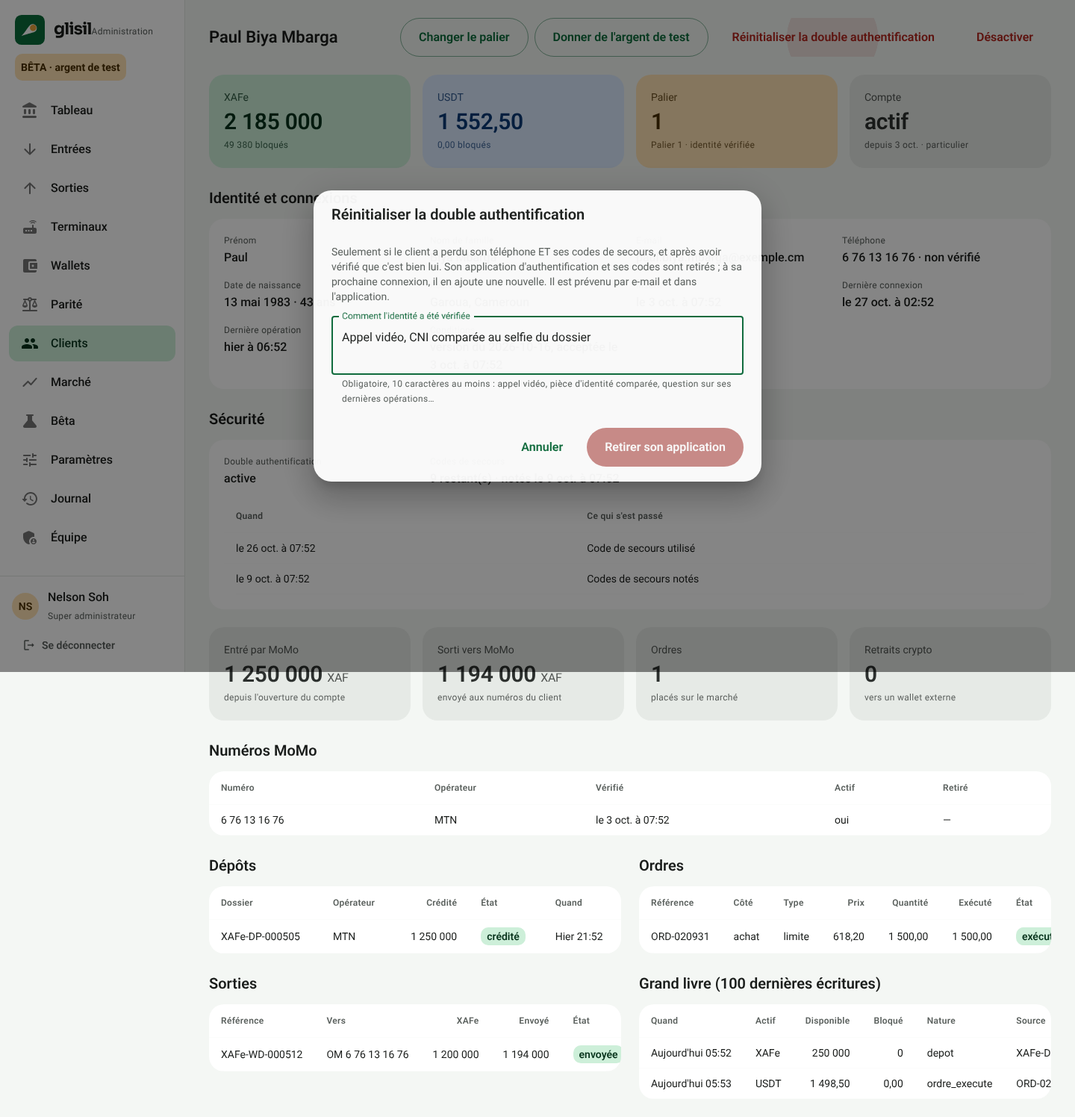
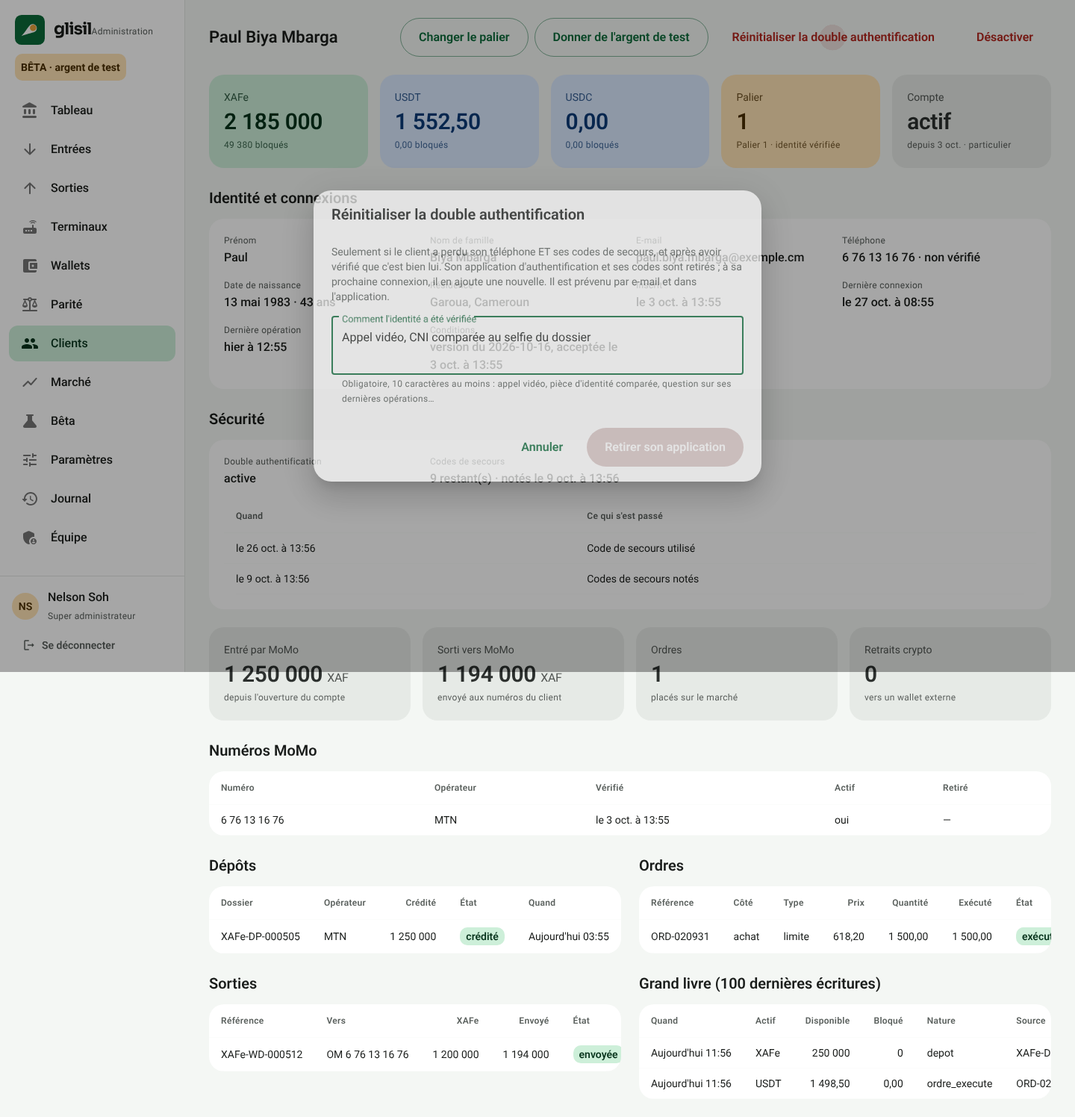
Administration : les deux carnets et l'USDC
Le Marché se lit carnet par carnet (onglets USDT/XAFe et USDC/XAFe), et
chacun a son interrupteur, écrit dans marche.paires : fermer l'un ne ferme
pas l'autre. Wallets : l'USDC dû, tenu et couvert à part ; chaque dollar au
chaud et au froid ; les adresses prêtes par actif. Tableau et clients :
la colonne USDC. Paramètres : marche.paires et crypto.frais_reseaux
expliqués. Parcours rejoué (35 captures).

Claude-Session: https://claude.ai/code/session_01KQFNA9um3M9XZtMAcLTsHe

diff --git a/admin/src/guichet/demo.ts b/admin/src/guichet/demo.ts
@@ -94,8 +94,8 @@ function graine(): Etat {
       id: `c${i + 1}`, telephone: tel, nom, entreprise: nom.includes("SARL") || nom.startsWith("ETS") || nom.startsWith("Desk") ? nom : null,
       palier: (i === 4 ? 0 : i === 7 ? 1 : i % 4 === 0 ? 2 : i % 3 === 0 ? 1 : 0) as 0 | 1 | 2, verification_en_cours: i === 4 ? "identite" : i === 7 ? "entreprise" : null,
       cree_le: iso(t - (30 - i) * 24 * H), desactive_le: i === 11 ? iso(t - 5 * 24 * H) : null,
-      xafe: Math.round((i + 1) * 437_000 + (i % 5) * 12_345), usdt: Math.round((i + 1) * 310.5 * 100) / 100,
-      soldes: { XAFe: { disponible: Math.round((i + 1) * 437_000), bloque: (i % 5) * 12_345 }, USDT: { disponible: Math.round((i + 1) * 310.5 * 100) / 100, bloque: 0 } },
+      xafe: Math.round((i + 1) * 437_000 + (i % 5) * 12_345), usdt: Math.round((i + 1) * 310.5 * 100) / 100, usdc: i % 3 === 0 ? (i + 1) * 120 : 0,
+      soldes: { XAFe: { disponible: Math.round((i + 1) * 437_000), bloque: (i % 5) * 12_345 }, USDT: { disponible: Math.round((i + 1) * 310.5 * 100) / 100, bloque: 0 }, USDC: { disponible: i % 3 === 0 ? (i + 1) * 120 : 0, bloque: 0 } },
       numeros: [{ id: `n${i}`, operateur: tel.startsWith("69") ? "om" : "mtn", numero: tel, verifie_le: iso(t - (30 - i) * 24 * H), actif_des: iso(t - (29 - i) * 24 * H), retire_le: null }],
       a_code: true,
       email: `${sansAccents(nom).toLowerCase().replace(/[^a-z]+/g, ".").replace(/^\.|\.$/g, "")}@exemple.cm`,
@@ -360,13 +360,13 @@ export class GuichetDemo implements GuichetAdmin {
     const debutJour = new Date().setHours(0, 0, 0, 0);
     return copie({
       circulation: somme("XAFe", "disponible") + somme("XAFe", "bloque"),
-      soldes: { XAFe: { disponible: somme("XAFe", "disponible"), bloque: somme("XAFe", "bloque") }, USDT: { disponible: somme("USDT", "disponible"), bloque: somme("USDT", "bloque") } },
-      maison: { XAFe: 2_418_500, USDT: 1_204.75 },
+      soldes: { XAFe: { disponible: somme("XAFe", "disponible"), bloque: somme("XAFe", "bloque") }, USDT: { disponible: somme("USDT", "disponible"), bloque: somme("USDT", "bloque") }, USDC: { disponible: somme("USDC", "disponible"), bloque: somme("USDC", "bloque") } },
+      maison: { XAFe: 2_418_500, USDT: 1_204.75, USDC: 212.4 },
       comptes: e.clients.length,
       jour: {
         entrees: e.entrees.flatMap((x) => x.declarations).filter((d) => d.etat === "credite" && d.credite_le && new Date(d.credite_le).getTime() >= debutJour).reduce((s, d) => s + (d.montant ?? 0), 0),
         sorties: e.sorties.filter((s) => new Date(s.cree_le).getTime() >= debutJour).reduce((s, x) => s + x.montant_envoye, 0),
-        volume_usdt: 41_298, frais_xafe: 93_420,
+        volume_usdt: 41_298, frais_xafe: 93_420, volumes: { "USDT/XAFe": 41_298, "USDC/XAFe": 6_120 },
       },
       retenues: { nombre: e.retenues.filter((r) => r.etat === "retenue").length, montant: e.retenues.filter((r) => r.etat === "retenue").reduce((s, r) => s + (r.montant ?? 0), 0) },
       sorties_en_cours: e.sorties.filter((s) => ["en_attente", "en_cours"].includes(s.etat)).length,
@@ -894,16 +894,20 @@ export class GuichetDemo implements GuichetAdmin {
     a.actif = actif; this.noter(actif ? "activer_administrateur" : "desactiver_administrateur", id); this.emettre();
   }
 
-  async marche(): Promise<Marche> {
+  async marche(paire = "USDT/XAFe"): Promise<Marche> {
     this.exiger("voir");
-    const mid = this.e.mid;
+    // le carnet USDC de la démonstration : un peu sous celui de l'USDT, plus mince
+    const usdc = paire === "USDC/XAFe";
+    const mid = usdc ? Math.round((this.e.mid - 1.3) * 20) / 20 : this.e.mid;
+    const regles = { ...(this.e.parametres.marche as Record<string, unknown>), ...((this.e.parametres.marche as { paires?: Record<string, Record<string, unknown>> }).paires?.[paire] ?? {}) };
     const niveau = (i: number) => Math.round(200 + Math.abs(Math.sin(i * 7.3)) * 9000);
     const t = maintenant();
     return copie({
       cotation: this.cotation(),
       carnet: { achats: Array.from({ length: 12 }, (_, i) => ({ prix: Math.round((mid - (i + 1) * 0.05) * 100) / 100, quantite: niveau(i), ordres: 1 + (i % 4) })), ventes: Array.from({ length: 12 }, (_, i) => ({ prix: Math.round((mid + (i + 1) * 0.05) * 100) / 100, quantite: niveau(i + 20), ordres: 1 + (i % 3) })), dernier: mid },
       transactions: Array.from({ length: 20 }, (_, i) => ({ prix: Math.round((mid + (Math.sin(i) * 0.2)) * 20) / 20, quantite: niveau(i + 40) / 10, preneur: i % 2 ? "achat" : "vente", cree_le: iso(t - i * 37_000) })),
-      ordres_ouverts: 37,
+      ordres_ouverts: usdc ? 9 : 37,
+      paire: paire as Marche["paire"], paires: ["USDT/XAFe", "USDC/XAFe"], regles: { ...regles, paire, base: usdc ? "USDC" : "USDT" },
       parametres: this.e.parametres.marche as Marche["parametres"],
       frais: this.e.parametres.frais as Marche["frais"],
       chandelles: Array.from({ length: 48 }, (_, i) => { const o = mid - 2 + Math.sin(i / 3) * 1.5; const c = o + (Math.cos(i / 2) * 0.4); return { t: iso(t - (48 - i) * H), o: Math.round(o * 100) / 100, h: Math.round((Math.max(o, c) + 0.2) * 100) / 100, l: Math.round((Math.min(o, c) - 0.2) * 100) / 100, c: Math.round(c * 100) / 100, v: niveau(i + 60) }; }),
@@ -924,17 +928,21 @@ export class GuichetDemo implements GuichetAdmin {
     const t = maintenant();
     const du = Math.round(this.e.clients.reduce((s, c) => s + (c.soldes.USDT?.disponible ?? 0) + (c.soldes.USDT?.bloque ?? 0), 0) * 100) / 100;
     // la démo montre un réseau en ordre (BEP20) et un réseau qui réclame quelqu'un (TRC20) : la page doit savoir dire les deux
+    const duUsdc = Math.round(this.e.clients.reduce((s, c) => s + (c.soldes.USDC?.disponible ?? 0) + (c.soldes.USDC?.bloque ?? 0), 0) * 100) / 100;
     return {
-      du_usdt: du, maison_usdt: 1_284.5,
+      du_usdt: du, maison_usdt: 1_284.5, du_usdc: duUsdc, maison_usdc: 212.4,
       reseaux: [
         {
-          reseau: "bep20", maj_le: iso(t - 9_000), muet: false, adresses_attribuees: 214, adresses_libres: 20, retraits_en_cours: 1, retraits_remplaces: 0, curseur: 48_210_377,
+          reseau: "bep20", maj_le: iso(t - 9_000), muet: false, adresses_attribuees: 214, adresses_libres: 60, retraits_en_cours: 1, retraits_remplaces: 0, curseur: 48_210_377,
+          actifs: ["XAFe", "USDT", "USDC"], libres: { XAFe: 20, USDT: 20, USDC: 20 },
           etat: { chaud: "0x8F3a5b7C2d1E4f6A9b0C3d5E7f9A1b2C4d6E8f0A", usdt_chaud: 8_412.37, natif_chaud: 0.4821, froid: "0x2b9C4e6F8a0B1c3D5e7F9a1B3c5D7e9F0a2B4c6D", usdt_froid: Math.max(0, Math.round((du - 8_412.37 + 500) * 100) / 100), plafond_chaud: 20_000, garder_chaud: 10_000, a_inscrire: [], alertes: [],
             reserve_adresse: "0x750E774368240063BD5CF52b30b91183Efa4dAf3", reserve_xafe: 412_850_000, xafe_chaud: 0,
-            plafond_jour: 1_000_000_000, reste_du_jour: 873_500_000, en_pause: false, stock_xafe_ok: true },
+            plafond_jour: 1_000_000_000, reste_du_jour: 873_500_000, en_pause: false, stock_xafe_ok: true,
+            dollars: { USDT: { chaud: 8_412.37, froid: Math.max(0, Math.round((du - 8_412.37 + 500) * 100) / 100) }, USDC: { chaud: Math.round((duUsdc + 300) * 100) / 100, froid: 0 } } },
         },
         {
           reseau: "trc20", maj_le: iso(t - 12_000), muet: false, adresses_attribuees: 37, adresses_libres: 18, retraits_en_cours: 2, retraits_remplaces: 1, curseur: 71_402_118,
+          actifs: ["XAFe", "USDT"], libres: { XAFe: 9, USDT: 9 },
           etat: {
             chaud: "TMcQ8t4Fxyn28RZrRJZSizMTRi1x6ddnq5", usdt_chaud: 640.0, natif_chaud: 41.2, froid: null, usdt_froid: null, plafond_chaud: null, garder_chaud: null,
             a_inscrire: ["TAffsRJMFoskcaySKwsLFR3tvVvasrn2s7", "TVt5DUppUWwWQWjpPjvrhxXvGJZQTaX3Au"],

diff --git a/admin/src/pages/wallets.tsx b/admin/src/pages/wallets.tsx
@@ -86,18 +86,26 @@ function Reseau({ r }: { r: ReseauWallets }) {
             )}
             <Ligne label="Wallet chaud"><Adresse valeur={e.chaud} /></Ligne>
             <Ligne label="Au chaud">
-              <Typography>{enTranches(e.usdt_chaud, 2)} USDT · {enTranches(e.natif_chaud, decimalesNatif(r.reseau))} {NATIF[r.reseau] ?? ""} pour les frais</Typography>
+              {/* chaque dollar que ce veilleur porte (0045) ; un veilleur d'avant l'USDC ne publie que l'USDT */}
+              <Typography>{e.dollars
+                ? Object.entries(e.dollars).map(([d, v]) => `${enTranches(v?.chaud ?? 0, 2)} ${d}`).join(" · ")
+                : `${enTranches(e.usdt_chaud, 2)} USDT`} · {enTranches(e.natif_chaud, decimalesNatif(r.reseau))} {NATIF[r.reseau] ?? ""} pour les frais</Typography>
             </Ligne>
             <Ligne label="Wallet froid">
               {e.froid ? <Adresse valeur={e.froid} /> : <Typography variant="body2">Aucun : rien ne part au froid automatiquement.</Typography>}
             </Ligne>
             {e.froid && (
               <Ligne label="Au froid">
-                <Typography>{e.usdt_froid != null ? `${enTranches(e.usdt_froid, 2)} USDT` : "—"}</Typography>
-                {e.plafond_chaud != null && <Typography variant="caption">Au-delà de {enTranches(e.plafond_chaud, 0)} USDT au chaud, le surplus part au froid ; il en reste {enTranches(e.garder_chaud ?? 0, 0)} au chaud, plus ce que les retraits en attente demandent.</Typography>}
+                <Typography>{e.dollars
+                  ? Object.entries(e.dollars).map(([d, v]) => `${v?.froid != null ? enTranches(v.froid, 2) : "—"} ${d}`).join(" · ")
+                  : e.usdt_froid != null ? `${enTranches(e.usdt_froid, 2)} USDT` : "—"}</Typography>
+                {e.plafond_chaud != null && <Typography variant="caption">Au-delà de {enTranches(e.plafond_chaud, 0)} {e.dollars ? "USDT (ou USDC)" : "USDT"} au chaud, le surplus part au froid ; il en reste {enTranches(e.garder_chaud ?? 0, 0)} au chaud, plus ce que les retraits en attente demandent. Chaque dollar a ce même plafond, pour lui.</Typography>}
               </Ligne>
             )}
-            <Ligne label="Adresses de dépôt"><Typography>{r.adresses_attribuees} données à des clients · {r.adresses_libres} prêtes</Typography></Ligne>
+            <Ligne label="Adresses de dépôt">
+              <Typography>{r.adresses_attribuees} données à des clients · {r.adresses_libres} prêtes</Typography>
+              {r.libres && <Typography variant="caption">Prêtes, par actif : {Object.entries(r.libres).map(([a, n]) => `${a} ${n}`).join(" · ")}{r.actifs && !r.actifs.includes("USDC") ? " — ce réseau ne porte pas l'USDC" : ""}</Typography>}
+            </Ligne>
             <Ligne label="Retraits">
               <Typography>{r.retraits_en_cours} en cours</Typography>
               {r.retraits_remplaces > 0 && <Typography variant="caption">{r.retraits_remplaces} transaction{r.retraits_remplaces > 1 ? "s" : ""} remplacée{r.retraits_remplaces > 1 ? "s" : ""} (elle ne pouvait plus entrer dans un bloc) — chaque retrait n'est parti qu'une fois, la base garde l'ancienne et la nouvelle.</Typography>}
@@ -176,8 +184,12 @@ function Registre() {
 export function Wallets() {
   const { data: w } = useWallets();
   if (!w) return <Coquille titre="Wallets"><Typography variant="body2">Chargement…</Typography></Coquille>;
-  const tenu = w.reseaux.reduce((s, r) => s + (r.etat?.usdt_chaud ?? 0) + (r.etat?.usdt_froid ?? 0), 0);
+  const tenu = w.reseaux.reduce((s, r) => s + (r.etat?.dollars?.USDT ? (r.etat.dollars.USDT.chaud + (r.etat.dollars.USDT.froid ?? 0)) : (r.etat?.usdt_chaud ?? 0) + (r.etat?.usdt_froid ?? 0)), 0);
   const couverture = w.du_usdt > 0 ? tenu / w.du_usdt : null;
+  /* l'USDC (0045) : ce qu'on doit et ce qu'on tient, à part — un dollar ne couvre pas l'autre */
+  const tenuUsdc = w.reseaux.reduce((s, r) => s + (r.etat?.dollars?.USDC ? r.etat.dollars.USDC.chaud + (r.etat.dollars.USDC.froid ?? 0) : 0), 0);
+  const duUsdc = w.du_usdc ?? 0;
+  const couvertureUsdc = duUsdc > 0 ? tenuUsdc / duUsdc : null;
   return (
     <Coquille titre="Wallets">
       <Stack direction="row" gap={2} flexWrap="wrap">
@@ -186,6 +198,14 @@ export function Wallets() {
         <Tuile label="Couverture" valeur={couverture == null ? "—" : `${enTranches(couverture * 100, 1)} %`} tone={couverture == null || couverture >= 1 ? "green" : "amber"}
           aide={couverture != null && couverture < 1 ? "sous 100 % : un dépôt n'est peut-être pas encore balayé, ou un wallet manque" : "ce que l'on tient, rapporté à ce que l'on doit"} />
       </Stack>
+      {(duUsdc > 0 || tenuUsdc > 0 || w.du_usdc != null) && (
+        <Stack direction="row" gap={2} flexWrap="wrap">
+          <Tuile label="USDC dus aux clients" valeur={enTranches(duUsdc, 2)} unite="USDC" tone="blue" aide={`plus ${enTranches(w.maison_usdc ?? 0, 2)} USDC de frais à la maison`} />
+          <Tuile label="USDC sur nos wallets (chaud + froid)" valeur={enTranches(tenuUsdc, 2)} unite="USDC" tone="green" aide="BNB Chain et Ethereum ; hors adresses de dépôt pas encore balayées" />
+          <Tuile label="Couverture USDC" valeur={couvertureUsdc == null ? "—" : `${enTranches(couvertureUsdc * 100, 1)} %`} tone={couvertureUsdc == null || couvertureUsdc >= 1 ? "green" : "amber"}
+            aide={couvertureUsdc != null && couvertureUsdc < 1 ? "sous 100 % : un dépôt n'est peut-être pas encore balayé, ou un wallet manque" : "un USDC dû est un USDC tenu"} />
+        </Stack>
+      )}
       <Registre />
       {w.reseaux.map((r) => <Reseau key={r.reseau} r={r} />)}
       <Section titre="Dépôts qui n'ont crédité personne">

diff --git a/admin/src/guichet/types.ts b/admin/src/guichet/types.ts
@@ -15,7 +15,7 @@ export type Tableau = {
   soldes: Record<string, { disponible: number; bloque: number }>;
   maison: Record<string, number>;
   comptes: number;
-  jour: { entrees: number; sorties: number; volume_usdt: number; frais_xafe: number };
+  jour: { entrees: number; sorties: number; volume_usdt: number; frais_xafe: number; volumes?: Record<string, number> };
   retenues: { nombre: number; montant: number };
   sorties_en_cours: number;
   declarations_attendues: number;
@@ -25,7 +25,7 @@ export type Tableau = {
   cotation: Cotation;
 };
 
-export type Cotation = { dernier: number | null; il_y_a_24h: number | null; haut: number | null; bas: number | null; volume_usdt: number; volume_xafe: number; meilleur_achat: number | null; meilleure_vente: number | null };
+export type Cotation = { paire?: string; base?: string; volume_base?: number; dernier: number | null; il_y_a_24h: number | null; haut: number | null; bas: number | null; volume_usdt: number; volume_xafe: number; meilleur_achat: number | null; meilleure_vente: number | null };
 
 export type Declaration = { id: string; transaction_id: string; etat: "attendu" | "credite" | "refuse"; montant: number | null; numero_payeur: string | null; motif: string | null; declare_le: string; credite_le: string | null };
 export type Entree = {
@@ -136,7 +136,7 @@ export type Parite = {
 };
 export type Client = {
   id: string; telephone: string; nom: string | null; entreprise: string | null; palier: number; verification_en_cours: "identite" | "entreprise" | null;
-  cree_le: string; desactive_le: string | null; xafe: number; usdt: number;
+  cree_le: string; desactive_le: string | null; xafe: number; usdt: number; usdc?: number;
   email: string | null; ville: string | null; pays: string | null;
   /** la dernière écriture sur son compte (un mouvement d'argent) */
   derniere_operation: string | null;
@@ -160,12 +160,19 @@ export type ClientDetail = {
   ordres: { id: string; numero: string; cote: string; type: string; prix: number | null; quantite: number; executee: number; total_xafe: number; etat: string; cree_le: string }[];
   ecritures: { actif: string; disponible: number; bloque: number; nature: string; source: string; quand: string }[];
 };
+/** Les deux carnets (0045) : USDT/XAFe et USDC/XAFe. */
+export const PAIRES = ["USDT/XAFe", "USDC/XAFe"] as const;
+export type Paire = (typeof PAIRES)[number];
 export type Marche = {
+  /** le carnet lu, et ceux qui existent (0045) ; absents d'une base d'avant */
+  paire?: Paire; paires?: Paire[];
+  /** les règles de CE carnet : « marche », plus ce que « marche.paires.<paire> » change */
+  regles?: { ouvert?: boolean; base?: string } & Record<string, unknown>;
   cotation: Cotation;
   carnet: { achats: { prix: number; quantite: number; ordres: number }[]; ventes: { prix: number; quantite: number; ordres: number }[]; dernier: number | null };
   transactions: { prix: number; quantite: number; preneur: string; cree_le: string }[];
   ordres_ouverts: number;
-  parametres: { paire: string; pas_prix: number; quantite_min: number; ouvert: boolean };
+  parametres: { paire: string; pas_prix: number; quantite_min: number; ouvert: boolean; paires?: Record<string, Record<string, unknown>> };
   frais: { placeur: number; preneur: number; sortie: number };
   chandelles: { t: string; o: number; h: number; l: number; c: number; v: number }[];
 };
@@ -185,6 +192,8 @@ export type EtatChaine = {
      d'un veilleur d'avant le correctif. */
   reserve_adresse?: string | null; reserve_xafe?: number | null; xafe_chaud?: number | null;
   plafond_jour?: number | null; reste_du_jour?: number | null; en_pause?: boolean | null; stock_xafe_ok?: boolean | null;
+  /** chaque dollar porté par ce veilleur (USDT, USDC), au chaud et au froid — absent d'un veilleur d'avant l'USDC */
+  dollars?: Partial<Record<"USDT" | "USDC", { chaud: number; froid: number | null }>>;
 };
 /** Un réseau du registre (0018) : ouvert aux clients ou non, configuré, lisible par un veilleur. */
 export type ReseauRegistre = {
@@ -195,9 +204,11 @@ export type ReseauRegistre = {
 export type ReseauWallets = {
   reseau: string; nom?: string; actif?: boolean; etat: EtatChaine | null; maj_le: string | null; muet: boolean;
   adresses_attribuees: number; adresses_libres: number; retraits_en_cours: number; retraits_remplaces: number; curseur: number | null;
+  /** ce que le réseau porte (0045), et les adresses prêtes de chacun */
+  actifs?: string[]; libres?: Record<string, number>;
 };
 export type Orphelin = { reseau: string; actif: string; adresse: string; montant: number; preuve: string; raison: string; vu_le: string };
-export type Wallets = { reseaux: ReseauWallets[]; orphelins: Orphelin[]; du_usdt: number; maison_usdt: number };
+export type Wallets = { reseaux: ReseauWallets[]; orphelins: Orphelin[]; du_usdt: number; maison_usdt: number; du_usdc?: number; maison_usdc?: number };
 
 /** Les chiffres en tête de la page Clients (admin_statistiques_clients). */
 export type StatsClients = {

diff --git a/admin/src/pages/marche.tsx b/admin/src/pages/marche.tsx
@@ -1,10 +1,12 @@
 /*
  * Le Marché, vu de l'administration : la cotation, le carnet entier, les
- * dernières transactions, les chandelles, et l'interrupteur « ouvert ».
+ * dernières transactions, les chandelles, et l'interrupteur « ouvert » —
+ * carnet par carnet (0045) : USDT/XAFe et USDC/XAFe ne se mêlent jamais.
  */
-import { Box, Paper, Stack, Switch, Typography } from "@mui/material";
+import { Box, Paper, Stack, Switch, Tab, Tabs, Typography } from "@mui/material";
 import { useState } from "react";
 import { useGuichet, useMarche, useRafraichir } from "../guichet";
+import { PAIRES, type Paire } from "../guichet/types";
 import { enTranches, heureSecondes, prix, usdt, xaf } from "../noyau/format";
 import { useSession } from "../session/session";
 import { Coquille, Erreur, Section, Tableau, Tuile } from "../ui";
@@ -15,29 +17,39 @@ export function Marche() {
   const guichet = useGuichet();
   const rafraichir = useRafraichir();
   const { peut } = useSession();
-  const { data: m } = useMarche();
+  const [paire, setPaire] = useState<Paire>("USDT/XAFe");
+  const { data: m } = useMarche(paire);
   const [erreur, setErreur] = useState<unknown>(null);
   if (!m) return <Coquille titre="Marché"><Typography variant="body2">Chargement…</Typography></Coquille>;
   const c = m.cotation;
-  const basculer = async (ouvert: boolean) => {
-    try { await guichet.modifierParametre("marche", { ...m.parametres, ouvert }); await rafraichir(); } catch (e) { setErreur(e); }
+  const base = paire.split("/")[0];
+  /* l'état de CE carnet : ses règles s'il les dit (0045), sinon celles du marché entier */
+  const ouvert = typeof m.regles?.ouvert === "boolean" ? m.regles.ouvert : m.parametres.ouvert;
+  /* chaque carnet a son interrupteur, écrit dans « marche.paires.<paire> » : fermer l'un ne ferme jamais l'autre */
+  const basculer = async (v: boolean) => {
+    const paires = { ...(m.parametres.paires ?? {}) };
+    paires[paire] = { ...(paires[paire] ?? {}), ouvert: v };
+    try { await guichet.modifierParametre("marche", { ...m.parametres, paires }); await rafraichir(); } catch (e) { setErreur(e); }
   };
   const max = Math.max(1, ...m.carnet.achats.map((n) => n.quantite), ...m.carnet.ventes.map((n) => n.quantite));
 
   return (
-    <Coquille titre="Marché USDT/XAFe" actions={
+    <Coquille titre={`Marché ${paire}`} actions={
       peut("parametres") ? (
         <Stack direction="row" alignItems="center" gap={1}>
-          <Typography variant="body2">{m.parametres.ouvert ? "Marché ouvert" : "Marché fermé"}</Typography>
-          <Switch checked={m.parametres.ouvert} onChange={(e) => void basculer(e.target.checked)} inputProps={{ "aria-label": "marché ouvert" }} />
+          <Typography variant="body2">{ouvert ? `${paire} ouvert` : `${paire} fermé`}</Typography>
+          <Switch checked={ouvert} onChange={(e) => void basculer(e.target.checked)} inputProps={{ "aria-label": `${paire} ouvert` }} />
         </Stack>
       ) : undefined
     }>
+      <Tabs value={paire} onChange={(_, v) => setPaire(v)} sx={{ minHeight: 40 }}>
+        {(m.paires ?? PAIRES).map((p) => <Tab key={p} value={p} label={p} data-paire={p} sx={{ minHeight: 40, textTransform: "none", fontWeight: 600 }} />)}
+      </Tabs>
       <Erreur erreur={erreur} onFermer={() => setErreur(null)} />
       <Stack direction="row" gap={2} flexWrap="wrap">
         <Tuile label="Dernier" valeur={c.dernier != null ? prix(c.dernier) : "—"} unite="XAFe" tone="green" aide={c.il_y_a_24h != null && c.dernier != null ? `${c.dernier >= c.il_y_a_24h ? "+" : ""}${enTranches(((c.dernier - c.il_y_a_24h) / c.il_y_a_24h) * 100, 2)} % sur 24 h` : undefined} />
         <Tuile label="Haut · bas 24 h" valeur={`${c.haut != null ? prix(c.haut) : "—"} · ${c.bas != null ? prix(c.bas) : "—"}`} />
-        <Tuile label="Volume 24 h" valeur={xaf(Math.round(c.volume_usdt))} unite="USDT" aide={`${xaf(c.volume_xafe)} XAFe`} />
+        <Tuile label="Volume 24 h" valeur={xaf(Math.round(c.volume_base ?? c.volume_usdt))} unite={base} aide={`${xaf(c.volume_xafe)} XAFe`} />
         <Tuile label="Écart" valeur={c.meilleur_achat != null && c.meilleure_vente != null ? prix(c.meilleure_vente - c.meilleur_achat) : "—"} aide={`${m.ordres_ouverts} ordres ouverts · frais ${(m.frais.placeur * 100).toFixed(2)} % / ${(m.frais.preneur * 100).toFixed(2)} %`} />
       </Stack>
       <Paper sx={{ p: 2, borderRadius: 5 }}>

diff --git a/admin/src/pages/clients.tsx b/admin/src/pages/clients.tsx
@@ -124,7 +124,7 @@ export function Clients() {
         <Typography variant="body2">{lignes.length} compte{lignes.length > 1 ? "s" : ""}</Typography>
       </Stack>
       <Tableau
-        colonnes={["Client", "Téléphone", "Résidence", "Palier", { label: "XAFe", align: "right" }, { label: "USDT", align: "right" }, "Dernière opération", "Dernière connexion", "Inscrit", "État"]}
+        colonnes={["Client", "Téléphone", "Résidence", "Palier", { label: "XAFe", align: "right" }, { label: "USDT", align: "right" }, { label: "USDC", align: "right" }, "Dernière opération", "Dernière connexion", "Inscrit", "État"]}
         lignes={lignes.map((c) => [
           <Link key="n" to={`/clients/${c.id}`} style={{ color: "inherit" }}>
             <Typography component="span" fontWeight={600} sx={{ display: "block" }}>{c.nom ?? "—"}</Typography>
@@ -135,6 +135,7 @@ export function Clients() {
           c.verification_en_cours ? <Chip key="v" size="small" label={`${c.palier} · ${c.verification_en_cours === "identite" ? "identité à vérifier" : "entreprise à vérifier"}`} sx={{ height: 24, bgcolor: "#DBEAFF", color: "#0B3B78" }} /> : String(c.palier),
           xaf(c.xafe),
           enTranches(c.usdt, 2),
+          enTranches(c.usdc ?? 0, 2),
           c.derniere_operation ? jourRelatif(c.derniere_operation) : "jamais",
           c.derniere_connexion ? `${jourRelatif(c.derniere_connexion)} ${heure(c.derniere_connexion)}` : "—",
           jourRelatif(c.cree_le),
@@ -183,6 +184,7 @@ export function ClientDetail() {
       <Stack direction="row" gap={2} flexWrap="wrap">
         <Tuile label="XAFe" valeur={xaf(data.soldes.XAFe?.disponible ?? 0)} tone="green" aide={`${xaf(data.soldes.XAFe?.bloque ?? 0)} bloqués`} />
         <Tuile label="USDT" valeur={enTranches(data.soldes.USDT?.disponible ?? 0, 2)} tone="blue" aide={`${enTranches(data.soldes.USDT?.bloque ?? 0, 2)} bloqués`} />
+        <Tuile label="USDC" valeur={enTranches(data.soldes.USDC?.disponible ?? 0, 2)} tone="blue" aide={`${enTranches(data.soldes.USDC?.bloque ?? 0, 2)} bloqués`} />
         <Tuile label="Palier" valeur={String(c.palier)} tone="amber" aide={PALIERS[c.palier]} />
         <Tuile label="Compte" valeur={c.ferme_le ? "fermé" : c.desactive_le ? "désactivé" : "actif"} tone={c.desactive_le ? "red" : "neutral"}
           aide={c.ferme_le ? `fermé par le client ${jourRelatif(c.ferme_le).toLowerCase()}` : `depuis ${jourRelatif(c.cree_le)} · ${c.entreprise ?? "particulier"}${securite && !securite.deux_facteurs ? " · sans double authentification" : ""}`} />
@@ -262,7 +264,7 @@ export function ClientDetail() {
             </Section>
           ) : null}
           <Section titre="Grand livre (100 dernières écritures)">
-            <Tableau colonnes={["Quand", "Actif", { label: "Disponible", align: "right" }, { label: "Bloqué", align: "right" }, "Nature", "Source"]} lignes={data.ecritures.map((e) => [`${jourRelatif(e.quand)} ${heure(e.quand)}`, e.actif, enTranches(e.disponible, e.actif === "USDT" ? 2 : 0), enTranches(e.bloque, e.actif === "USDT" ? 2 : 0), e.nature, e.source])} vide="Aucune écriture." />
+            <Tableau colonnes={["Quand", "Actif", { label: "Disponible", align: "right" }, { label: "Bloqué", align: "right" }, "Nature", "Source"]} lignes={data.ecritures.map((e) => [`${jourRelatif(e.quand)} ${heure(e.quand)}`, e.actif, enTranches(e.disponible, e.actif === "XAFe" ? 0 : 2), enTranches(e.bloque, e.actif === "XAFe" ? 0 : 2), e.nature, e.source])} vide="Aucune écriture." />
           </Section>
         </Stack>
       </Stack>

diff --git a/admin/src/pages/parametres.tsx b/admin/src/pages/parametres.tsx
@@ -12,12 +12,12 @@ import { Coquille, Erreur, Section, Tableau } from "../ui";
 
 const BLOCS: { cle: string; titre: string; aide: string }[] = [
   { cle: "frais", titre: "Frais", aide: "placeur et preneur en fraction (0.001 = 0,10 %) ; sortie en fraction du montant" },
-  { cle: "marche", titre: "Marché", aide: "la paire, le pas de prix, quantite_min (au centime d'USDT), montant_min (le minimum d'un ordre, en XAFe), ouvert ou fermé ; quantite_max et marche_quantite_max absents = aucun plafond" },
+  { cle: "marche", titre: "Marché", aide: "les règles des deux carnets : le pas de prix, quantite_min (au centime d'USDT ou d'USDC), montant_min (le minimum d'un ordre, en XAFe), ouvert ou fermé ; quantite_max et marche_quantite_max absents = aucun plafond. « paire » reste USDT/XAFe (la principale). paires : ce qui change pour un carnet, par exemple {\"USDC/XAFe\": {\"ouvert\": false}} — le reste vient d'au-dessus" },
   { cle: "depot", titre: "Dépôts", aide: "validité d'un dossier (minutes) et grâce après expiration" },
   { cle: "sortie", titre: "Sorties", aide: "ouvertes : true/false ; mode : \"manuel\" (l'équipe paie et tape le transaction ID) ou \"totem\" (le boîtier compose) ; seuil_deux_personnes : au-delà de ce montant en XAF, une autre personne confirme (null = jamais) ; reprises_max : essais d'un transfert TOTEM ; forcage : true autorise le super admin à clore une sortie sans le SMS de la puce, 30 min après le paiement (false par défaut)" },
   { cle: "rapide", titre: "Achat rapide", aide: "la marge de la plateforme (0.01 = 1 %), la validité du prix en secondes, ouvert ou fermé" },
   { cle: "paliers", titre: "Paliers", aide: "plafonds par jour en entrée et en sortie ; null = sans plafond" },
-  { cle: "crypto", titre: "Crypto", aide: "frais fixes par actif et confirmations par réseau" },
+  { cle: "crypto", titre: "Crypto", aide: "frais fixes par actif (XAFe, USDT, USDC) et confirmations par réseau (bep20, trc20, erc20) ; frais_reseaux : les frais d'un réseau qui coûte plus, par exemple {\"erc20\": {\"USDT\": 5, \"USDC\": 5, \"XAFe\": 3000}} pour Ethereum — sinon ceux de l'actif" },
   { cle: "code_secret", titre: "Code secret", aide: "essais avant verrou, minutes de verrou, longueur" },
   { cle: "support", titre: "Support", aide: "ce que l'application propose dans Aide : l'e-mail, et le WhatsApp au format +2376XXXXXXXX (ou null)" },
   { cle: "parite", titre: "Parité", aide: "alerte_numero : le numéro qui reçoit l'alarme par SMS (null = aucun) ; alerte_operateur : \"mtn\" ou \"om\" ; fraicheur_heures : au-delà, le solde d'un float n'est plus « connu » ; delai_minutes : au-delà, une opération absente de la chaîne est une anomalie ; publier_floats : la page publique montre le total des floats" },

diff --git a/admin/src/pages/tableau.tsx b/admin/src/pages/tableau.tsx
@@ -14,18 +14,21 @@ export function Tableau() {
   if (!t) return <Coquille titre="Tableau"><Typography variant="body2">Chargement…</Typography></Coquille>;
   const xafe = t.soldes.XAFe ?? { disponible: 0, bloque: 0 };
   const usdt = t.soldes.USDT ?? { disponible: 0, bloque: 0 };
+  const usdc = t.soldes.USDC ?? { disponible: 0, bloque: 0 };
   return (
     <Coquille titre="Tableau">
       <Stack direction="row" gap={2} flexWrap="wrap">
         <Tuile label="XAFe en circulation (ce qu'on doit)" valeur={xaf(t.circulation)} unite="XAFe" tone="green" aide={`${xaf(xafe.disponible)} disponibles · ${xaf(xafe.bloque)} bloqués`} />
         <Tuile label="USDT des clients" valeur={enTranches(usdt.disponible + usdt.bloque, 2)} unite="USDT" tone="blue" aide={`${enTranches(usdt.bloque, 2)} bloqués au carnet`} />
-        <Tuile label="Maison · frais encaissés" valeur={xaf(t.maison.XAFe ?? 0)} unite="XAFe" tone="amber" aide={`${enTranches(t.maison.USDT ?? 0, 2)} USDT`} />
+        <Tuile label="USDC des clients" valeur={enTranches(usdc.disponible + usdc.bloque, 2)} unite="USDC" tone="blue" aide={`${enTranches(usdc.bloque, 2)} bloqués au carnet`} />
+        <Tuile label="Maison · frais encaissés" valeur={xaf(t.maison.XAFe ?? 0)} unite="XAFe" tone="amber" aide={`${enTranches(t.maison.USDT ?? 0, 2)} USDT · ${enTranches(t.maison.USDC ?? 0, 2)} USDC`} />
         <Tuile label="USDT/XAFe" valeur={t.cotation.dernier != null ? prix(t.cotation.dernier) : "—"} tone="neutral" aide={`${xaf(t.cotation.volume_usdt)} USDT sur 24 h`} />
       </Stack>
       <Stack direction="row" gap={2} flexWrap="wrap">
         <Tuile label="Entré aujourd'hui" valeur={xaf(t.jour.entrees)} unite="XAF" />
         <Tuile label="Sorti aujourd'hui" valeur={xaf(t.jour.sorties)} unite="XAF" />
-        <Tuile label="Volume du jour" valeur={xaf(Math.round(t.jour.volume_usdt))} unite="USDT" />
+        <Tuile label="Volume du jour" valeur={xaf(Math.round(t.jour.volumes?.["USDT/XAFe"] ?? t.jour.volume_usdt))} unite="USDT"
+          aide={t.jour.volumes?.["USDC/XAFe"] != null ? `et ${xaf(Math.round(t.jour.volumes["USDC/XAFe"]))} USDC` : undefined} />
         <Tuile label="Frais du jour" valeur={xaf(t.jour.frais_xafe)} unite="XAFe" />
       </Stack>
 

diff --git a/admin/src/guichet/index.tsx b/admin/src/guichet/index.tsx
@@ -42,7 +42,7 @@ export function useStatistiquesClients() { const g = useGuichet(); return useQue
 export function useClient(id: string | undefined) { const g = useGuichet(); return useQuery({ queryKey: ["client", id], queryFn: () => g.client(id!), enabled: Boolean(id) }); }
 export function useSecurite(id: string | undefined) { const g = useGuichet(); return useQuery({ queryKey: ["securite", id], queryFn: () => g.securite(id!), enabled: Boolean(id) }); }
 export function useEquipe() { const g = useGuichet(); return useQuery({ queryKey: ["equipe"], queryFn: () => g.equipe() }); }
-export function useMarche() { const g = useGuichet(); return useQuery({ queryKey: ["marche"], queryFn: () => g.marche(), refetchInterval: 5_000 }); }
+export function useMarche(paire?: string) { const g = useGuichet(); return useQuery({ queryKey: ["marche", paire ?? ""], queryFn: () => g.marche(paire), refetchInterval: 5_000 }); }
 export function useParametres() { const g = useGuichet(); return useQuery({ queryKey: ["parametres"], queryFn: () => g.parametres() }); }
 export function useJournal() { const g = useGuichet(); return useQuery({ queryKey: ["journal"], queryFn: () => g.journal(), refetchInterval: 15_000 }); }
 export function useReseaux() { const g = useGuichet(); return useQuery({ queryKey: ["reseaux"], queryFn: () => g.reseaux() }); }

diff --git a/admin/src/guichet/supabase.ts b/admin/src/guichet/supabase.ts
@@ -233,7 +233,7 @@ export class GuichetSupabase implements GuichetAdmin {
   async retirerInvitation(email: string) { await this.rpc("admin_retirer_invitation", { p_email: email }); }
   async changerRole(id: string, role: string) { await this.rpc("admin_changer_role", { p_id: id, p_role: role }); }
   async activerAdministrateur(id: string, actif: boolean) { await this.rpc("admin_desactiver_administrateur", { p_id: id, p_actif: actif }); }
-  marche() { return this.rpc<Marche>("admin_marche"); }
+  marche(paire?: string) { return this.rpc<Marche>("admin_marche", paire ? { p_paire: paire } : {}); }
   parametres() { return this.rpc<Parametres>("admin_parametres"); }
   async modifierParametre(cle: string, valeur: unknown) { await this.rpc("admin_modifier_parametre", { p_cle: cle, p_valeur: valeur }); }
   journal() { return this.rpc<LigneJournal[]>("admin_journal", { p_n: 200 }); }

diff --git a/admin/src/guichet/guichet.ts b/admin/src/guichet/guichet.ts
@@ -106,7 +106,8 @@ export interface GuichetAdmin {
   changerRole(id: string, role: string): Promise<void>;
   activerAdministrateur(id: string, actif: boolean): Promise<void>;
 
-  marche(): Promise<Marche>;
+  /** un carnet (0045) : la paire principale si rien n'est dit */
+  marche(paire?: string): Promise<Marche>;
   parametres(): Promise<Parametres>;
   modifierParametre(cle: string, valeur: unknown): Promise<void>;
   journal(): Promise<LigneJournal[]>;
